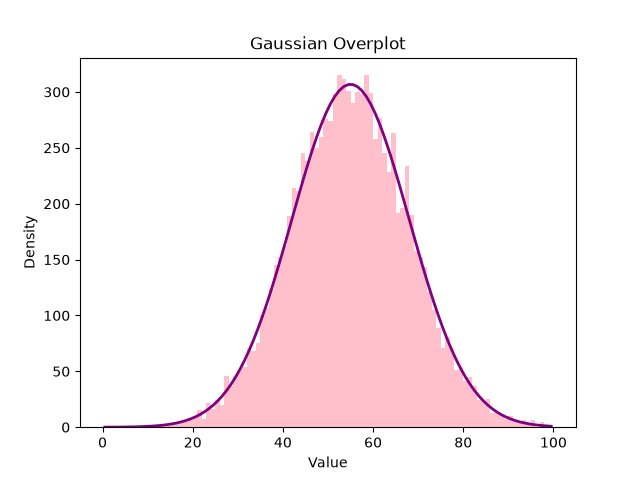
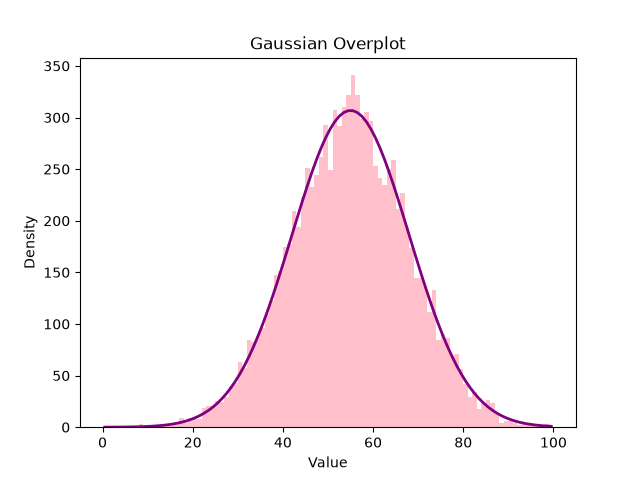
Homework 4 successful upload and run in stokes

diff --git a/homework/hw4_jacquilyn/hw4_jacquilyn.py b/homework/hw4_jacquilyn/hw4_jacquilyn.py
@@ -1,0 +1,108 @@
+#!/usr/bin/env python
+# coding: utf-8
+
+# In[1]:
+
+
+# Jacquilyn Reilly
+# Homework 4
+# 9/20/2026
+
+
+# In[2]:
+
+
+#imports 
+
+import numpy as np
+import matplotlib as mpl
+import matplotlib.pyplot as plt
+
+
+# In[3]:
+
+
+#Problem 2
+print("Problem 2:")
+
+
+#Part A
+#A function that draws a random sample of N draws from a Gaussian dist. with width sigma and mean mu
+print("\n    Part A:")
+
+def drawrandom(N, sigma, mu):
+    sample= np.random.normal( loc= mu, scale= sigma, size= N)
+
+    return(sample)
+
+
+# In[4]:
+
+
+#Part A continued...
+#Use the function to make a sample of 10,000 draws from a pop. of sigma=13 and mu=55
+
+twoB= drawrandom(10000, 13, 55)
+
+
+# In[8]:
+
+
+#Part B
+print("\n    Part B:")
+#Plot the histogram of your sample
+#with bins x= 0 to 100 with 1 unit width
+
+#define specified bins firts
+spec_bins= np.arange(0, 101, 1)
+
+#Now plot histogram using bins
+plt.hist(twoB, bins= spec_bins, color= 'pink')
+
+#Make the plot publication ready
+plt.title("Random Sample")
+plt.xlabel("Value")
+plt.ylabel("Count")
+plt.show()
+
+#save it as a PNG with correct name
+plt.savefig("hw4_jacquilyn_problem2_graph1.png")
+
+
+# In[7]:
+
+
+#Part C
+print("\n    Part C:")
+
+#Overplot a Gaussian distribution with the same mu and sigma as the histogram
+#Approximate the integration between bin boundaries by evaluating the Gaussian at the center of each bin
+#Multiply the function by total number of draes to get expected values
+
+def gaussian(n, sigma, mu):
+    return (1 / (sigma * np.sqrt(2 * np.pi))) * np.exp(-0.5 * ((n - mu) / sigma) ** 2)
+
+
+#Begin with the same histogram
+plt.hist(twoB, bins= spec_bins, color= 'pink')
+
+#Add gaussian fucntion on top
+x= (spec_bins[:-1] + spec_bins[1:])/2
+y= (gaussian(x, 13, 55))*10000           #scaling gaussian to match histogram x and y axis
+
+plt.plot(x, y, color= 'purple', linewidth= 2, label= 'Gaussian')
+
+#Make plot publication ready
+plt.title("Gaussian Overplot")
+plt.xlabel("Value")
+plt.ylabel("Density")
+
+#Save as new png file
+plt.savefig("hw4_jacquilyn_problem2_graph2.png")
+
+
+# In[ ]:
+
+
+
+
